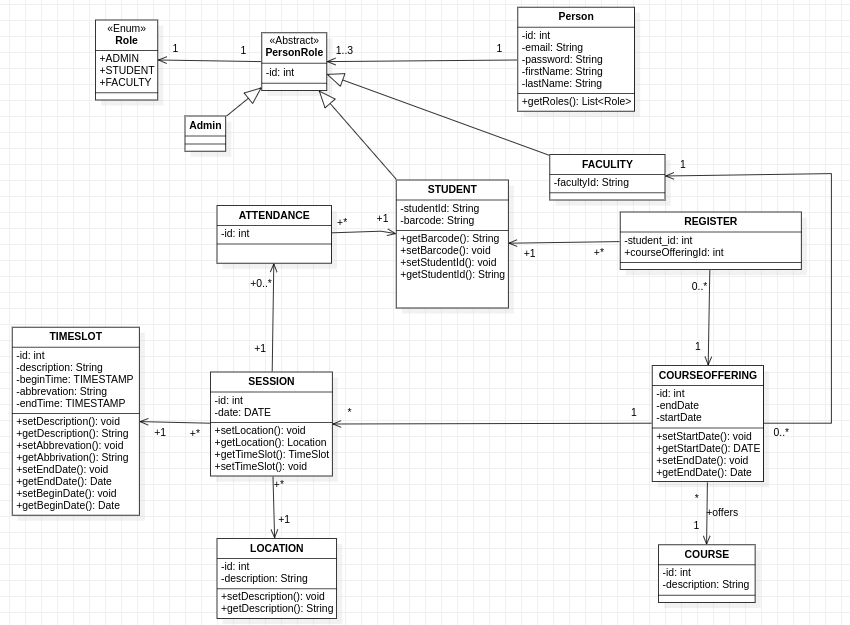
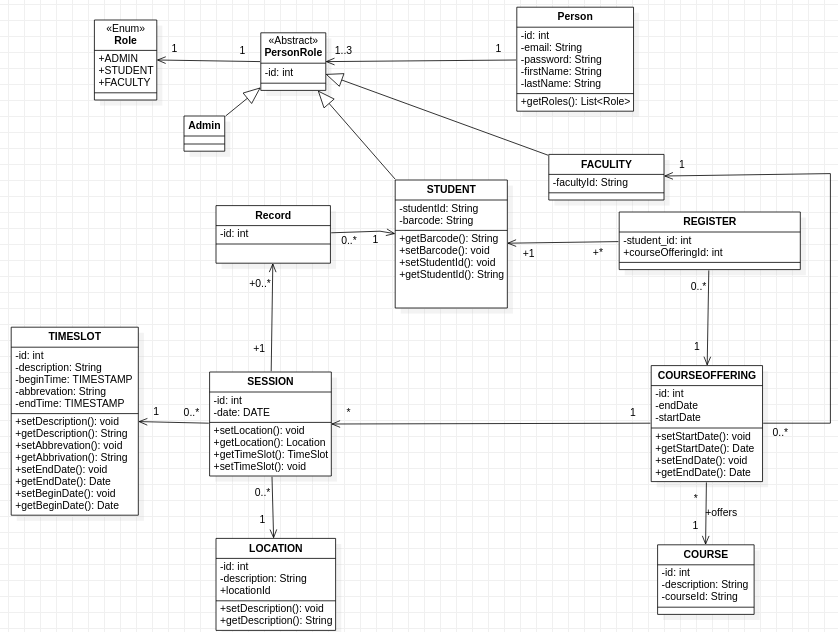
major review on UML and Class implementation

diff --git a/src/main/java/com/cs544/domain/Timeslot.java b/src/main/java/com/cs544/domain/Timeslot.java
@@ -7,14 +7,15 @@ import java.util.Date;
 public class Timeslot {
 	@Id
 	@GeneratedValue(strategy = GenerationType.AUTO)
-	  private long id; 
-	  private String description;
-	@Temporal(TemporalType.TIMESTAMP)
-	  private Date beginTime;
-	  @Temporal(TemporalType.TIMESTAMP)
-	  private Date endTime;
-	  private String abbrevition;
-public Timeslot(){}
+	private long id; 
+	private String description;
+	@Temporal(TemporalType.TIME)
+	private Date beginTime;
+	@Temporal(TemporalType.TIME)
+	private Date endTime;
+	private String abbrevition;
+
+	public Timeslot(){}
 
 	public long getId() {
 		return id;
@@ -29,31 +30,31 @@ public Timeslot(){}
 	this.beginTime = beginTime;
 	this.endTime = endTime;
 	this.abbrevition = abbrevition;
-}
-public String getDescription() {
-	return description;
-}
-public void setDescription(String description) {
-	this.description = description;
-}
-public Date getBeginTime() {
-	return beginTime;
-}
-public void setBeginTime(Date beginTime) {
-	this.beginTime = beginTime;
-}
-public Date getEndTime() {
-	return endTime;
-}
-public void setEndTime(Date endTime) {
-	this.endTime = endTime;
-}
-public String getAbbrevition() {
-	return abbrevition;
-}
-public void setAbbrevition(String abbrevition) {
-	this.abbrevition = abbrevition;
-}
-  
+	}
+	public String getDescription() {
+		return description;
+	}
+	public void setDescription(String description) {
+		this.description = description;
+	}
+	public Date getBeginTime() {
+		return beginTime;
+	}
+	public void setBeginTime(Date beginTime) {
+		this.beginTime = beginTime;
+	}
+	public Date getEndTime() {
+		return endTime;
+	}
+	public void setEndTime(Date endTime) {
+		this.endTime = endTime;
+	}
+	public String getAbbrevition() {
+		return abbrevition;
+	}
+	public void setAbbrevition(String abbrevition) {
+		this.abbrevition = abbrevition;
+	}
+	  
   
 }

diff --git a/src/main/java/com/cs544/domain/CourseOffering.java b/src/main/java/com/cs544/domain/CourseOffering.java
@@ -6,13 +6,29 @@ import java.util.Date;
 import java.util.List;
 
 @Entity
-public class OfferedCourse {
+public class CourseOffering {
 	@Id
 	@GeneratedValue(strategy = GenerationType.AUTO)
 	private Long id;
-	private String OfferingCourseID;
 	@Temporal(TemporalType.DATE)
 	private Date endDate;
+	@Temporal(TemporalType.DATE)
+	private Date startDate;
+	@ManyToOne
+	private Course course ;
+	@OneToMany
+	private List<Session> session;
+	
+	public CourseOffering() {}
+	
+	public CourseOffering(Date startDate, Date endDate, Course course,
+			List<Session> session) {
+		this.endDate = endDate;
+		this.startDate = startDate;
+		this.course = course;
+		this.session = new ArrayList<>();
+		this.session.addAll(session);
+	}
 
 	public Long getId() {
 		return id;
@@ -22,38 +38,12 @@ public class OfferedCourse {
 		this.id = id;
 	}
 
-	@Temporal(TemporalType.DATE)
-	private Date startDate;
-	@ManyToOne
-	private Course course ;
-	@OneToMany
-	@JoinColumn(name = "offering_id")
-	private List<Session> session;
-	
-	public OfferedCourse() {}
-		
-	
-	public OfferedCourse(String offeringCourseID, Date endDate, Date startDate, Course course,
-			List<Session> session) {
-		OfferingCourseID = offeringCourseID;
-		this.endDate = endDate;
-		this.startDate = startDate;
-		this.course = course;
-		this.session = new ArrayList<>();
-		this.session.addAll(session);
-	}
 
 	public void addSession(Session session )
 	{
 		this.session.add(session);
 	}
 
-	public String getOfferingCourseID() {
-		return OfferingCourseID;
-	}
-	public void setOfferingCourseID(String offeringCourseID) {
-		OfferingCourseID = offeringCourseID;
-	}
 	public Date getEndDate() {
 		return endDate;
 	}

diff --git a/src/main/java/com/cs544/domain/Session.java b/src/main/java/com/cs544/domain/Session.java
@@ -1,7 +1,10 @@
 package com.cs544.domain;
 
 import javax.persistence.*;
+
+import java.util.ArrayList;
 import java.util.Date;
+import java.util.List;
 
 @Entity
 public class Session {
@@ -13,11 +16,16 @@ public class Session {
 	@ManyToOne
 	private Timeslot timeslot;
 	@Temporal(TemporalType.DATE)
-	private Date date ;
+	private Date date;
+	@OneToMany
+	private List<Record> records;
 	
   
-	public Session() {}
+	public Session() {
+		this.records = new ArrayList<Record>();
+	}
 	public Session(Location location, Timeslot timeslot, Date date) {
+		this();
 		this.location = location;
 		this.timeslot = timeslot;
 		this.date = date;
@@ -25,6 +33,12 @@ public class Session {
 
 	
 	
+	public List<Record> getRecords() {
+		return records;
+	}
+	public void setRecords(List<Record> records) {
+		this.records = records;
+	}
 	public long getId() {
 		return id;
 	}
@@ -48,5 +62,11 @@ public class Session {
 	}
 	public void setDate(Date date) {
 		this.date = date;
+	}
+	
+	public void addRecord (Record record) {
+		if (record != null) {
+			this.records.add(record);
+		}
 	}
 }

diff --git a/src/main/java/com/cs544/domain/Course.java b/src/main/java/com/cs544/domain/Course.java
@@ -1,5 +1,6 @@
 package com.cs544.domain;
 
+import javax.persistence.Column;
 import javax.persistence.Entity;
 import javax.persistence.GeneratedValue;
 import javax.persistence.GenerationType;
@@ -11,7 +12,8 @@ public class Course {
 		@Id
 		@GeneratedValue(strategy = GenerationType.IDENTITY)
 		private long Id;
-		private int courseID;
+		@Column(unique = true)
+		private String courseID;
 		@Lob
 		private String description;
 		public long getId() {
@@ -19,7 +21,7 @@ public class Course {
 		}
 						
 		public Course() {}
-		public Course(long id, int courseID, String description) {
+		public Course(long id, String courseID, String description) {
 			Id = id;
 			this.courseID = courseID;
 			this.description = description;
@@ -28,10 +30,10 @@ public class Course {
 		private void setId(long id) {
 			Id = id;
 		}
-		public int getCourseID() {
+		public String getCourseID() {
 			return courseID;
 		}
-		public void setCourseID(int courseID) {
+		public void setCourseID(String courseID) {
 			this.courseID = courseID;
 		}
 		public String getDescription() {

diff --git a/src/main/java/com/cs544/domain/Register.java b/src/main/java/com/cs544/domain/Register.java
@@ -8,9 +8,9 @@ public class Register {
 	@GeneratedValue(strategy = GenerationType.AUTO)
 	private Long id;
 	@ManyToOne
-	public Student student ;
+	private Student student;
 	@ManyToOne
-	public OfferedCourse offeringCourses ;
+	private CourseOffering courseOffering;
 	
 	public Register() {}
 	
@@ -20,11 +20,11 @@ public class Register {
 	public void setStudent(Student student) {
 		this.student = student;
 	}
-	public OfferedCourse getOfferingCourses() {
-		return offeringCourses;
+	public CourseOffering getOfferedCourses() {
+		return courseOffering;
 	}
-	public void setOfferingCourses(OfferedCourse offeringCourses) {
-		this.offeringCourses = offeringCourses;
+	public void setOfferedCourses(CourseOffering courseOffering) {
+		this.courseOffering = courseOffering;
 	}
 	
 }

diff --git a/src/main/java/com/cs544/domain/Location.java b/src/main/java/com/cs544/domain/Location.java
@@ -1,5 +1,6 @@
 package com.cs544.domain;
 
+import javax.persistence.Column;
 import javax.persistence.Entity;
 import javax.persistence.GeneratedValue;
 import javax.persistence.GenerationType;
@@ -11,6 +12,8 @@ public class Location {
 	@Id
 	@GeneratedValue(strategy = GenerationType.AUTO)
 	private long id ;
+	@Column(unique = true)
+	private String locationId;
 	@Lob
 	private String description;
   
@@ -32,5 +35,10 @@ public class Location {
 	public void setDescription(String description) {
 		this.description = description;
 	}
-	
+	public String getLocationId() {
+		return locationId;
+	}
+	public void setLocationId(String locationId) {
+		this.locationId = locationId;
+	}
 }

diff --git a/src/main/java/com/cs544/domain/Record.java b/src/main/java/com/cs544/domain/Record.java
@@ -14,15 +14,12 @@ public class Record {
 	private long id;
 	@ManyToOne
 	private Student student;
-	@OneToOne
-	private Session session;
 
 	public Record() {}
 	
-	public Record(long id, Student student, Session session) {
+	public Record(long id, Student student) {
 		this.id = id;
 		this.student = student;
-		this.session = session;
 	}
 	public long getId() {
 		return id;
@@ -35,11 +32,5 @@ public class Record {
 	}
 	public void setStudent(Student student) {
 		this.student = student;
-	}
-	public Session getSession() {
-		return session;
-	}
-	public void setSession(Session session) {
-		this.session = session;
 	}
 }
